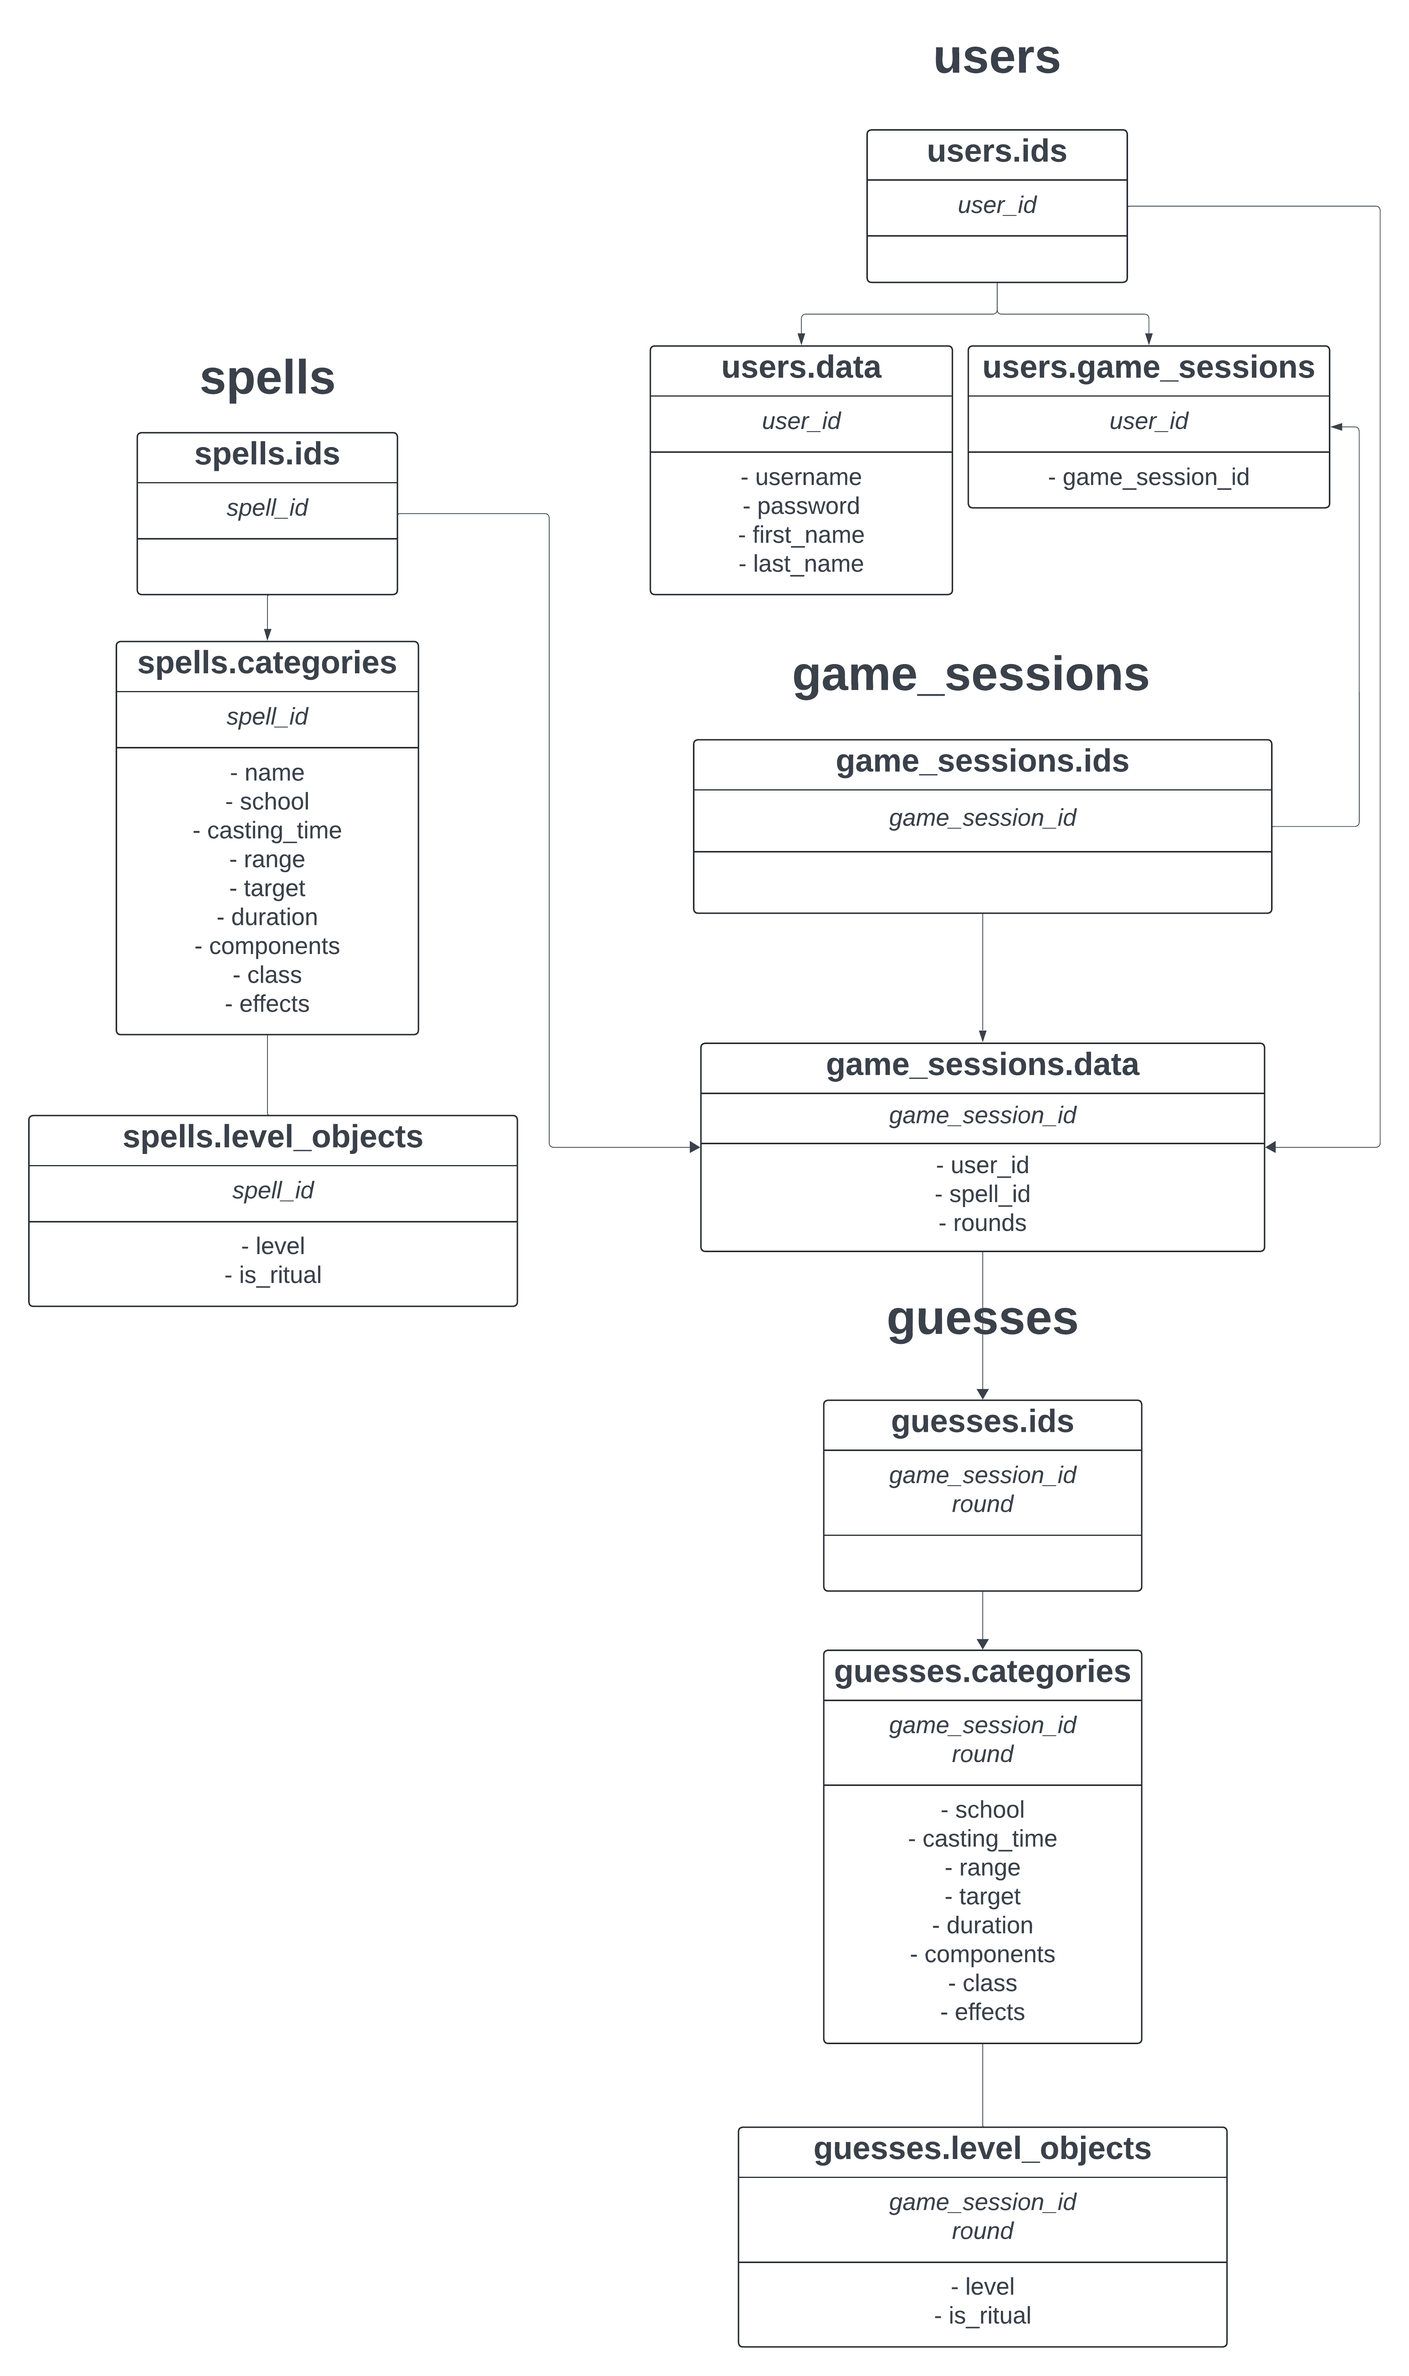
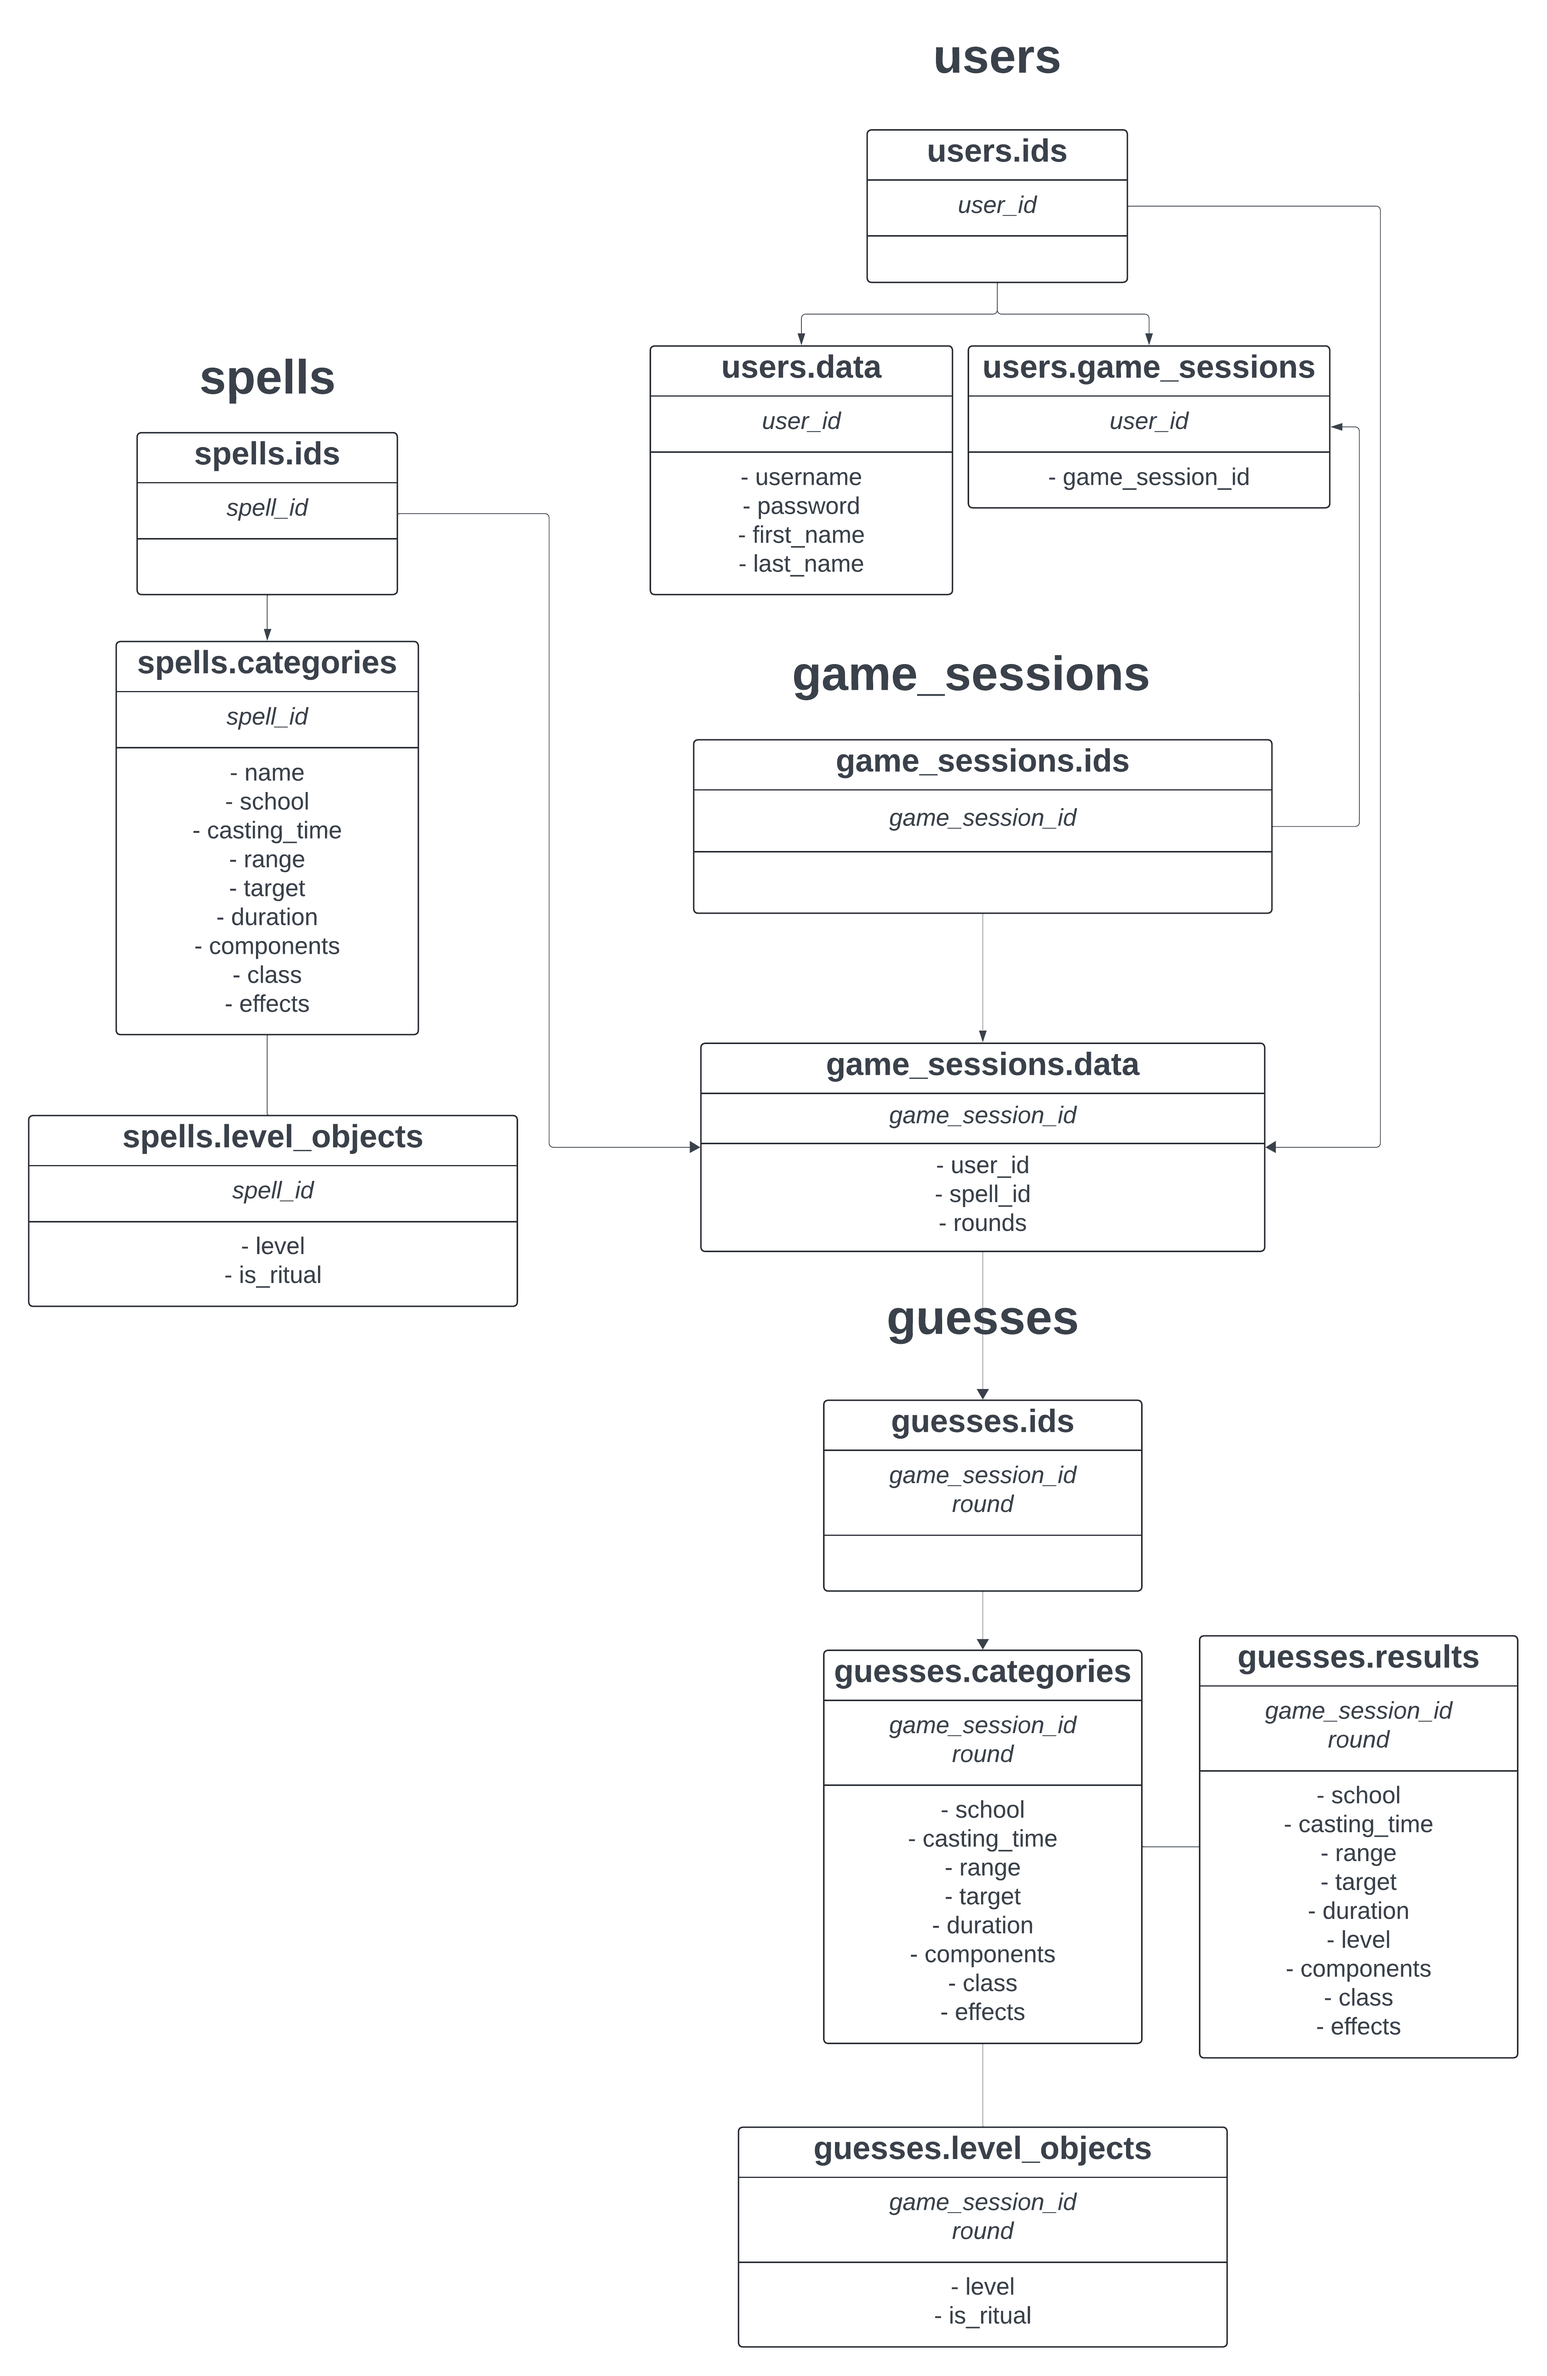
merge includeResultsInGuessType->guessResponse (#18)
* added results to guesses schema

* changed testGuesses to array of guesses

* test and db default data includes guesses

* tests passed for guessCategories dbHandlers

* tests passed for results dbHandlers

diff --git a/server/shared/dbHandler/guesses.go b/server/shared/dbHandler/guesses.go
@@ -8,20 +8,19 @@ import (
 
 // GETS
 
-const QGetGuessAllByGuessId = `
+const QGetGuessCategoriesByGuessId = `
   SELECT school, casting_time, range, target, duration, level, is_ritual, components, class, effects
   FROM guesses.categories
   NATURAL JOIN guesses.level_objects
   WHERE game_session_id=$1 AND round=$2
 `
 
-func (dbHandler *DBHandler) GetGuessByGameSessionId(gameSessionID types.GameSessionID, round uint) (types.GuessAllInfo, error) {
-	guess := types.GuessAllInfo{
-		GameSessionID: gameSessionID,
-		Round:         round,
+func (dbHandler *DBHandler) GetGuessCategoriesByGuessID(guessID types.GuessID) (types.GuessCategories, error) {
+	guess := types.GuessCategories{
+		GuessID: guessID,
 	}
 
-	err := dbHandler.Conn.QueryRow(context.Background(), QGetGuessAllByGuessId, gameSessionID, round).Scan(
+	err := dbHandler.Conn.QueryRow(context.Background(), QGetGuessCategoriesByGuessId, guessID.GameSessionID, guessID.Round).Scan(
 		&guess.School,
 		&guess.CastingTime,
 		&guess.Range,
@@ -38,6 +37,35 @@ func (dbHandler *DBHandler) GetGuessByGameSessionId(gameSessionID types.GameSess
 	}
 
 	return guess, nil
+}
+
+const QGetGuessResultsByGuessId = `
+  SELECT school, casting_time, range, target, duration, level, components, class, effects
+  FROM guesses.results
+  WHERE game_session_id=$1 AND round=$2
+`
+
+func (dbHandler *DBHandler) GetGuessResultsByGuessID(guessID types.GuessID) (types.GuessResults, error) {
+	results := types.GuessResults{
+		GuessID: guessID,
+	}
+
+	err := dbHandler.Conn.QueryRow(context.Background(), QGetGuessCategoriesByGuessId, guessID.GameSessionID, guessID.Round).Scan(
+		&results.School,
+		&results.CastingTime,
+		&results.Range,
+		&results.Target,
+		&results.Duration,
+		&results.Level,
+		&results.Components,
+		&results.Class,
+		&results.Effects,
+	)
+	if err != nil {
+		return results, err
+	}
+
+	return results, nil
 }
 
 // INSERTS
@@ -57,7 +85,7 @@ const EInsertGuessLevel = `
   VALUES ($1, $2, $3, $4)
 `
 
-func (dbHandler *DBHandler) InsertGuess(guess types.GuessAllInfo) error {
+func (dbHandler *DBHandler) InsertGuessCategories(guess types.GuessCategories) error {
 	_, err := dbHandler.Conn.Exec(context.Background(), EInsertGuessID,
 		guess.GameSessionID,
 		guess.Round,
@@ -88,6 +116,31 @@ func (dbHandler *DBHandler) InsertGuess(guess types.GuessAllInfo) error {
 		guess.Level.IsRitual,
 	)
 	if err != nil {
+		return err
+	}
+
+	return nil
+}
+
+const EInsertGuessResults = `
+  INSERT INTO guesses.results(game_session_id, round, school, casting_time, range, target, duration, level, components, class, effects)
+  VALUES ($1, $2, $3, $4, $5, $6, $7, $8, $9, $10, $11)
+`
+
+func (dbHandler *DBHandler) InsertGuessResults(results types.GuessResults) error {
+	if _, err := dbHandler.Conn.Exec(context.Background(), EInsertGuessResults,
+		results.GameSessionID,
+		results.Round,
+		results.School,
+		results.CastingTime,
+		results.Range,
+		results.Target,
+		results.Duration,
+		results.Level,
+		results.Components,
+		results.Class,
+		results.Effects,
+	); err != nil {
 		return err
 	}
 

diff --git a/server/shared/dbHandler/dbHandler_test.go b/server/shared/dbHandler/dbHandler_test.go
@@ -9,6 +9,7 @@ import (
 
 	"github.com/jackc/pgx/v5"
 	"spelldle.com/server/internal/testHelpers"
+	"spelldle.com/server/shared/types"
 
 	"github.com/joho/godotenv"
 )
@@ -24,7 +25,8 @@ func TestDBHandler(t *testing.T) {
 
 	testUserData := testHelpers.TestUserData
 	testSpellData := testHelpers.TestSpell
-	testGuessData := testHelpers.TestGuess
+	testGuessesData := testHelpers.TestGuesses
+	testResultsData := testHelpers.TestResults
 	testGameSessionData := testHelpers.TestGameSession
 
 	t.Run("Ping connection", func(t *testing.T) {
@@ -115,19 +117,51 @@ func TestDBHandler(t *testing.T) {
 		}
 	})
 
-	t.Run("InsertGuess", func(t *testing.T) {
-		err := dbHandler.InsertGuess(testGuessData)
-		if err != nil {
-			t.Errorf("Error in InsertGuess: %+v", err)
+	t.Run("InsertGuessCategories", func(t *testing.T) {
+		for i := range testGuessesData {
+			if err := dbHandler.InsertGuessCategories(testGuessesData[i]); err != nil {
+				t.Errorf("Error in InsertGuess: %+v", err)
+			}
 		}
 	})
-	t.Run("GetGuessByGameSessionID", func(t *testing.T) {
-		guessInfo, err := dbHandler.GetGuessByGameSessionId(testGuessData.GameSessionID, testGuessData.Round)
-		if err != nil {
-			t.Errorf("Error getting guess: %+v", err)
+	t.Run("GetGuessCategoriesByGuessID", func(t *testing.T) {
+		for i := range testGuessesData {
+			guessInfo, err := dbHandler.GetGuessCategoriesByGuessID(
+				types.GuessID{
+					GameSessionID: testGuessesData[i].GameSessionID,
+					Round:         testGuessesData[i].Round,
+				},
+			)
+			if err != nil {
+				t.Errorf("Error getting guess: %+v", err)
+			}
+			if guessInfo.GuessID != testGuessesData[i].GuessID {
+				t.Errorf("Mismatch in GetGuessByGameSessionID: got %+v, want %+v", guessInfo.GuessID, testGuessesData[i].GuessID)
+			}
 		}
-		if guessInfo.GameSessionID != testGuessData.GameSessionID {
-			t.Errorf("Mismatch in GetGuessByGameSessionID: got %+v, want %+v", guessInfo.GameSessionID, testGuessData.GameSessionID)
+	})
+
+	t.Run("InsertGuessResults", func(t *testing.T) {
+		for i := range testResultsData {
+			if err := dbHandler.InsertGuessResults(testResultsData[i]); err != nil {
+				t.Errorf("Error in InsertGuess: %+v", err)
+			}
+		}
+	})
+	t.Run("GetGuessResultsByGuessID", func(t *testing.T) {
+		for i := range testResultsData {
+			resultsInfo, err := dbHandler.GetGuessCategoriesByGuessID(
+				types.GuessID{
+					GameSessionID: testResultsData[i].GameSessionID,
+					Round:         testResultsData[i].Round,
+				},
+			)
+			if err != nil {
+				t.Errorf("Error getting guess: %+v", err)
+			}
+			if resultsInfo.GuessID != testResultsData[i].GuessID {
+				t.Errorf("Mismatch in GetGuessByGameSessionID: got %+v, want %+v", resultsInfo.GuessID, testResultsData[i].GuessID)
+			}
 		}
 	})
 

diff --git a/server/internal/testHelpers/testGuesses.go b/server/internal/testHelpers/testGuesses.go
@@ -2,21 +2,118 @@ package testHelpers
 
 import "spelldle.com/server/shared/types"
 
-var TestGuess = types.GuessAllInfo{
-	GameSessionID: "TEST",
-	Round:         1,
-	SpellCategories: types.SpellCategories{
-		Components: []int{1, 2},
-		Class:      []int{3, 4, 5},
-		Effects:    []int{6, 7, 8, 9},
-		Level: types.SpellLevel{
-			Level:    1,
-			IsRitual: false,
+const GameSessionID types.GameSessionID = "TEST"
+
+// ROUND 1: All incorrect
+// ROUND 2: Some correct
+// ROUND 3: All correct
+var TestGuesses = [3]types.GuessCategories{
+	{
+		GuessID: types.GuessID{
+			GameSessionID: GameSessionID,
+			Round:         1,
 		},
+		SpellCategories: types.SpellCategories{
+			Components: []int{10, 11},
+			Class:      []int{12, 13, 14},
+			Effects:    []int{15, 16, 17},
+			Level: types.SpellLevel{
+				Level:    0,
+				IsRitual: true,
+			},
+			School:      9,
+			CastingTime: 10,
+			Range:       11,
+			Target:      12,
+			Duration:    13,
+		},
+	},
+	{
+		GuessID: types.GuessID{
+			GameSessionID: GameSessionID,
+			Round:         2,
+		},
+		SpellCategories: types.SpellCategories{
+			Components: []int{1, 3, 4},
+			Class:      []int{3, 4, 10},
+			Effects:    []int{7, 10, 13, 14},
+			Level: types.SpellLevel{
+				Level:    1,
+				IsRitual: true,
+			},
+			School:      0,
+			CastingTime: 10,
+			Range:       11,
+			Target:      12,
+			Duration:    13,
+		},
+	},
+	{
+		GuessID: types.GuessID{
+			GameSessionID: GameSessionID,
+			Round:         3,
+		},
+		SpellCategories: types.SpellCategories{
+			Components: []int{1, 2},
+			Class:      []int{3, 4, 5},
+			Effects:    []int{6, 7, 8, 9},
+			Level: types.SpellLevel{
+				Level:    1,
+				IsRitual: false,
+			},
+			School:      0,
+			CastingTime: 1,
+			Range:       2,
+			Target:      3,
+			Duration:    4,
+		},
+	},
+}
+
+var TestResults = [3]types.GuessResults{
+	{
+		GuessID: types.GuessID{
+			GameSessionID: GameSessionID,
+			Round:         1,
+		},
+		Components:  0,
+		Class:       0,
+		Effects:     0,
+		Level:       0,
 		School:      0,
-		CastingTime: 1,
+		CastingTime: 0,
+		Range:       0,
+		Target:      0,
+		Duration:    0,
+	},
+	{
+		GuessID: types.GuessID{
+			GameSessionID: GameSessionID,
+			Round:         2,
+		},
+		Components:  1,
+		Class:       1,
+		Effects:     1,
+		Level:       1,
+		School:      2,
+		CastingTime: 0,
+		Range:       0,
+		Target:      0,
+		Duration:    0,
+	},
+	{
+		GuessID: types.GuessID{
+			GameSessionID: GameSessionID,
+			Round:         3,
+		},
+		Components:  2,
+		Class:       2,
+		Effects:     2,
+		Level:       2,
+		School:      2,
+		CastingTime: 2,
 		Range:       2,
-		Target:      3,
-		Duration:    4,
+		Target:      2,
+		Duration:    2,
 	},
 }

diff --git a/server/shared/types/guesses.go b/server/shared/types/guesses.go
@@ -1,7 +1,24 @@
 package types
 
-type GuessAllInfo struct {
+type GuessID struct {
 	GameSessionID GameSessionID `json:"game_session_id"`
+	Round         uint          `json:"round"`
+}
+
+type GuessCategories struct {
+	GuessID
 	SpellCategories
-	Round uint `json:"round"`
+}
+
+type GuessResults struct {
+	GuessID
+	Components  uint `json:"components"`
+	Class       uint `json:"class"`
+	Effects     uint `json:"effects"`
+	Level       uint `json:"level"`
+	School      uint `json:"school"`
+	CastingTime uint `json:"casting_time"`
+	Range       uint `json:"range"`
+	Target      uint `json:"target"`
+	Duration    uint `json:"duration"`
 }
